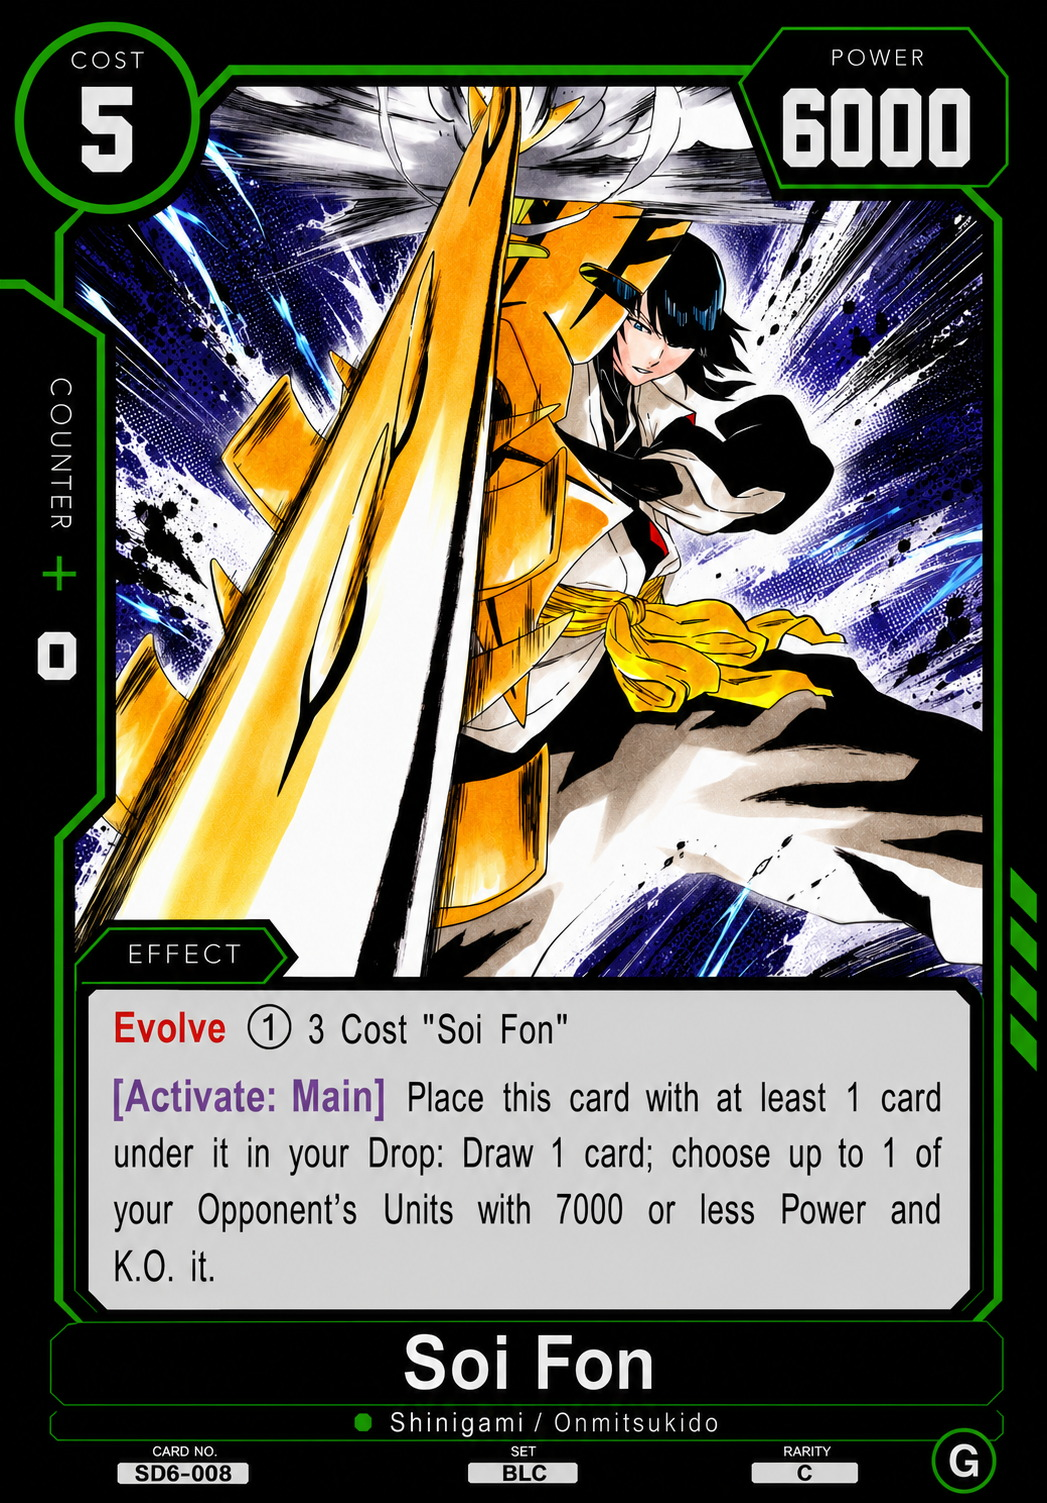
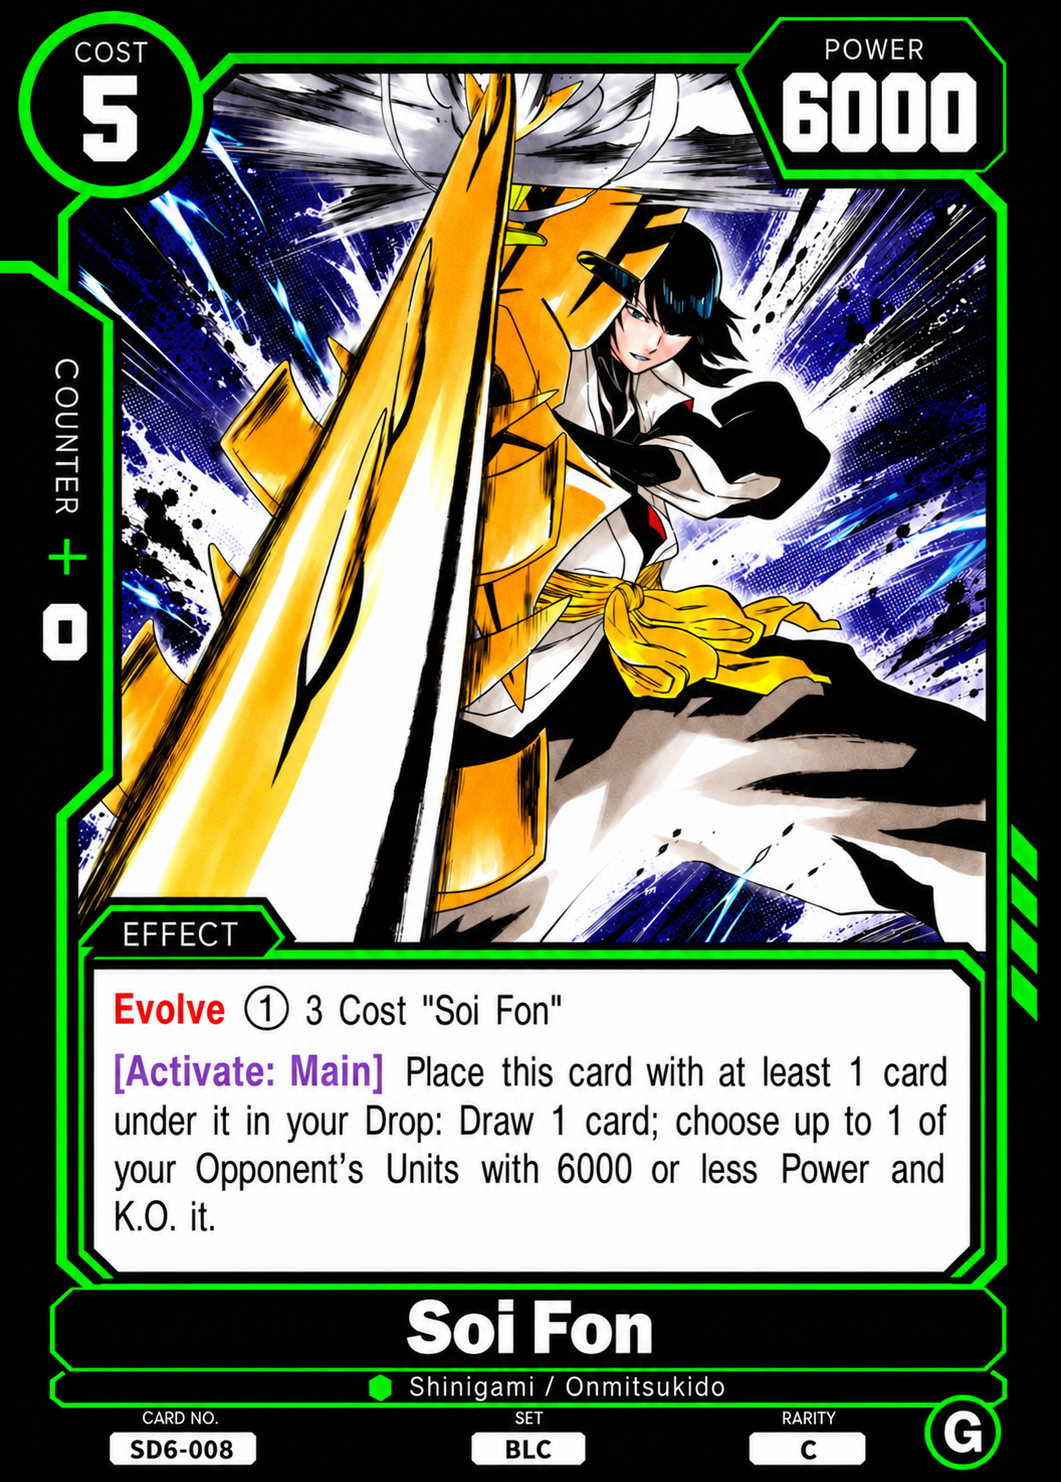
Publish four corrected BLEACH prints and resolve their holds

diff --git a/card-text-data.js b/card-text-data.js
@@ -18940,8 +18940,8 @@ window.SJTCG_CARD_TEXT = {
     "set": "BLC",
     "rarity": "C",
     "bottom_right_circle": "G",
-    "effect": "Unique Evolve (4) \"Shihouin Yoruichi\"\n[On Play] If this card was played by Evolve, draw 2 cards.\n[Activate: Main] Once per Turn Place 1 card from under this card in your Drop: Choose up to 1 of your Opponent's Units with 6000 or more Power, ignoring Barrier, and K.O. it.",
-    "effect_html": "<span class=\"kw kw-red\" title=\"Unique\">Unique</span> <span class=\"kw kw-red\" title=\"Evolve\">Evolve</span> (4) &quot;Shihouin Yoruichi&quot;<br><span class=\"kw kw-purple\" title=\"Timing window\">[On Play]</span> If this card was played by <span class=\"kw kw-red\" title=\"Evolve\">Evolve</span>, draw 2 cards.<br><span class=\"kw kw-purple\" title=\"Timing window\">[Activate: Main]</span> <span class=\"kw kw-orange\" title=\"Once per Turn\">Once per Turn</span> Place 1 card from under this card in your Drop: Choose up to 1 of your Opponent&#x27;s Units with 6000 or more Power, ignoring <span class=\"kw kw-red\" title=\"Barrier\">Barrier</span>, and K.O. it.",
+    "effect": "Unique Evolve (4) \"Shihouin Yoruichi\"\n[On Play] If this card was played by its Evolve skill: Draw 2 cards.\n[Activate: Main] Once per Turn Place 1 card from under this card in your Drop: Choose up to 1 of your Opponent's Units with 6000 or more Power, ignoring Barrier, and K.O. it.",
+    "effect_html": "<span class=\"kw kw-red\" title=\"Unique\">Unique</span> <span class=\"kw kw-red\" title=\"Evolve\">Evolve</span> (4) &quot;Shihouin Yoruichi&quot;<br><span class=\"kw kw-purple\" title=\"Timing window\">[On Play]</span> If this card was played by its <span class=\"kw kw-red\" title=\"Evolve\">Evolve</span> skill: Draw 2 cards.<br><span class=\"kw kw-purple\" title=\"Timing window\">[Activate: Main]</span> <span class=\"kw kw-orange\" title=\"Once per Turn\">Once per Turn</span> Place 1 card from under this card in your Drop: Choose up to 1 of your Opponent&#x27;s Units with 6000 or more Power, ignoring <span class=\"kw kw-red\" title=\"Barrier\">Barrier</span>, and K.O. it.",
     "notes": "",
     "transcription_status": "verified",
     "release": "SD6",
@@ -18963,8 +18963,8 @@ window.SJTCG_CARD_TEXT = {
     "set": "BLC",
     "rarity": "C",
     "bottom_right_circle": "G",
-    "effect": "Evolve (1) 3 Cost \"Soi Fon\"\n[Activate: Main] Place this card with at least 1 card under it in your Drop: Draw 1 card; choose up to 1 of your Opponent's Units with 7000 or less Power and K.O. it.",
-    "effect_html": "<span class=\"kw kw-red\" title=\"Evolve\">Evolve</span> (1) 3 Cost &quot;Soi Fon&quot;<br><span class=\"kw kw-purple\" title=\"Timing window\">[Activate: Main]</span> Place this card with at least 1 card under it in your Drop: Draw 1 card; choose up to 1 of your Opponent&#x27;s Units with 7000 or less Power and K.O. it.",
+    "effect": "Evolve (1) 3 Cost \"Soi Fon\"\n[Activate: Main] Place this card with at least 1 card under it in your Drop: Draw 1 card; choose up to 1 of your Opponent's Units with 6000 or less Power and K.O. it.",
+    "effect_html": "<span class=\"kw kw-red\" title=\"Evolve\">Evolve</span> (1) 3 Cost &quot;Soi Fon&quot;<br><span class=\"kw kw-purple\" title=\"Timing window\">[Activate: Main]</span> Place this card with at least 1 card under it in your Drop: Draw 1 card; choose up to 1 of your Opponent&#x27;s Units with 6000 or less Power and K.O. it.",
     "notes": "",
     "transcription_status": "verified",
     "release": "SD6",
@@ -19213,8 +19213,8 @@ window.SJTCG_CARD_TEXT = {
     "set": "BLC",
     "rarity": "C",
     "bottom_right_circle": "G",
-    "effect": "Clash [Opponent's Attack] Limit 1 Place all cards from under 1 of your \"Shihouin Yoruichi\" or \"Soi Fon\" with Evolve in your Drop. Then, if you placed at least 1 card, negate the attack.",
-    "effect_html": "<span class=\"kw kw-green\" title=\"Clash\">Clash</span> <span class=\"kw kw-purple\" title=\"Timing window\">[Opponent&#x27;s Attack]</span> <span class=\"kw kw-red\" title=\"Limit X\">Limit 1</span> Place all cards from under 1 of your &quot;Shihouin Yoruichi&quot; or &quot;Soi Fon&quot; with <span class=\"kw kw-red\" title=\"Evolve\">Evolve</span> in your Drop. Then, if you placed at least 1 card, negate the attack.",
+    "effect": "Clash [Opponent's Attack] Place all cards from under 1 of your \"Shihouin Yoruichi\" or \"Soi Fon\" in your Drop. Then, if you placed at least 1 card, negate the attack.",
+    "effect_html": "<span class=\"kw kw-green\" title=\"Clash\">Clash</span> <span class=\"kw kw-purple\" title=\"Timing window\">[Opponent&#x27;s Attack]</span> Place all cards from under 1 of your &quot;Shihouin Yoruichi&quot; or &quot;Soi Fon&quot; in your Drop. Then, if you placed at least 1 card, negate the attack.",
     "notes": "",
     "transcription_status": "verified",
     "release": "SD6",
@@ -24509,8 +24509,8 @@ window.SJTCG_CARD_TEXT = {
     "set": "BLC",
     "rarity": "P",
     "bottom_right_circle": "G",
-    "effect": "[On Play] If this card was played from your Drop: Choose up to 1 of your Opponent's Units, ignoring Barrier, and give this card Power equal to that card's Power until the end of your Opponent's next turn. Then, this card's skills become the same the same as that card's for the turn.",
-    "effect_html": "<span class=\"kw kw-purple\" title=\"Timing window\">[On Play]</span> If this card was played from your Drop: Choose up to 1 of your Opponent&#x27;s Units, ignoring <span class=\"kw kw-red\" title=\"Barrier\">Barrier</span>, and give this card Power equal to that card&#x27;s Power until the end of your Opponent&#x27;s next turn. Then, this card&#x27;s skills become the same the same as that card&#x27;s for the turn.",
+    "effect": "[On Play] If this card was played from your Drop: Choose up to 1 of your Opponent's Units; give this card Power equal to that card's Power until the end of your Opponent's next turn. Then, this card's Keyword skills become the same as that card's for the turn.",
+    "effect_html": "<span class=\"kw kw-purple\" title=\"Timing window\">[On Play]</span> If this card was played from your Drop: Choose up to 1 of your Opponent&#x27;s Units; give this card Power equal to that card&#x27;s Power until the end of your Opponent&#x27;s next turn. Then, this card&#x27;s Keyword skills become the same as that card&#x27;s for the turn.",
     "notes": "",
     "transcription_status": "verified",
     "release": "PUP",

diff --git a/cards-data.js b/cards-data.js
@@ -10950,7 +10950,7 @@ window.SJTCG_CARD_DATA = [
     "cardType": "Main Deck",
     "deckLimit": 4,
     "orientation": "Portrait",
-    "imageVersion": "fa606c351c71"
+    "imageVersion": "9ea97f23acbf"
   },
   {
     "number": "SD6-008",
@@ -10962,7 +10962,7 @@ window.SJTCG_CARD_DATA = [
     "cardType": "Main Deck",
     "deckLimit": 4,
     "orientation": "Portrait",
-    "imageVersion": "312e4212698c"
+    "imageVersion": "d22750ab1ca7"
   },
   {
     "number": "SD6-009",
@@ -11094,7 +11094,7 @@ window.SJTCG_CARD_DATA = [
     "cardType": "Main Deck",
     "deckLimit": 4,
     "orientation": "Portrait",
-    "imageVersion": "252e281a205b"
+    "imageVersion": "195ba1309efa"
   },
   {
     "number": "SD6-020",
@@ -13930,7 +13930,7 @@ window.SJTCG_CARD_DATA = [
     "cardType": "Main Deck",
     "deckLimit": 4,
     "orientation": "Portrait",
-    "imageVersion": "68c11bc83d92"
+    "imageVersion": "616cdf934e4a"
   },
   {
     "number": "PUP-069",

diff --git a/index.html b/index.html
@@ -214,8 +214,8 @@
     </section>
   </div>
 
-  <script src="cards-data.js?v=9bd29b5d626d"></script>
-  <script src="card-text-data.js?v=01c11dac4c4d"></script>
+  <script src="cards-data.js?v=52912f66d50e"></script>
+  <script src="card-text-data.js?v=b1810ebf6b45"></script>
   <script src="app.js?v=20261009-reprint-search-2"></script>
 </body>
 </html>
